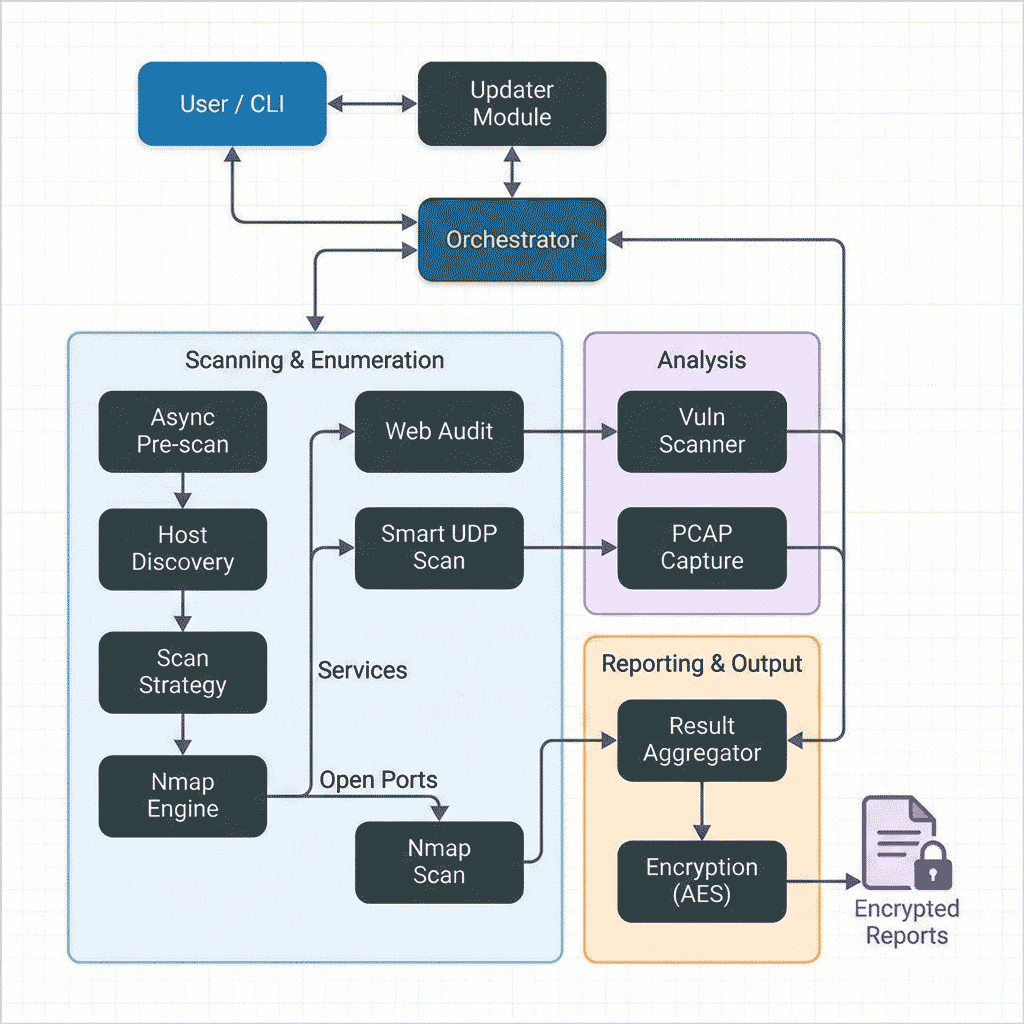
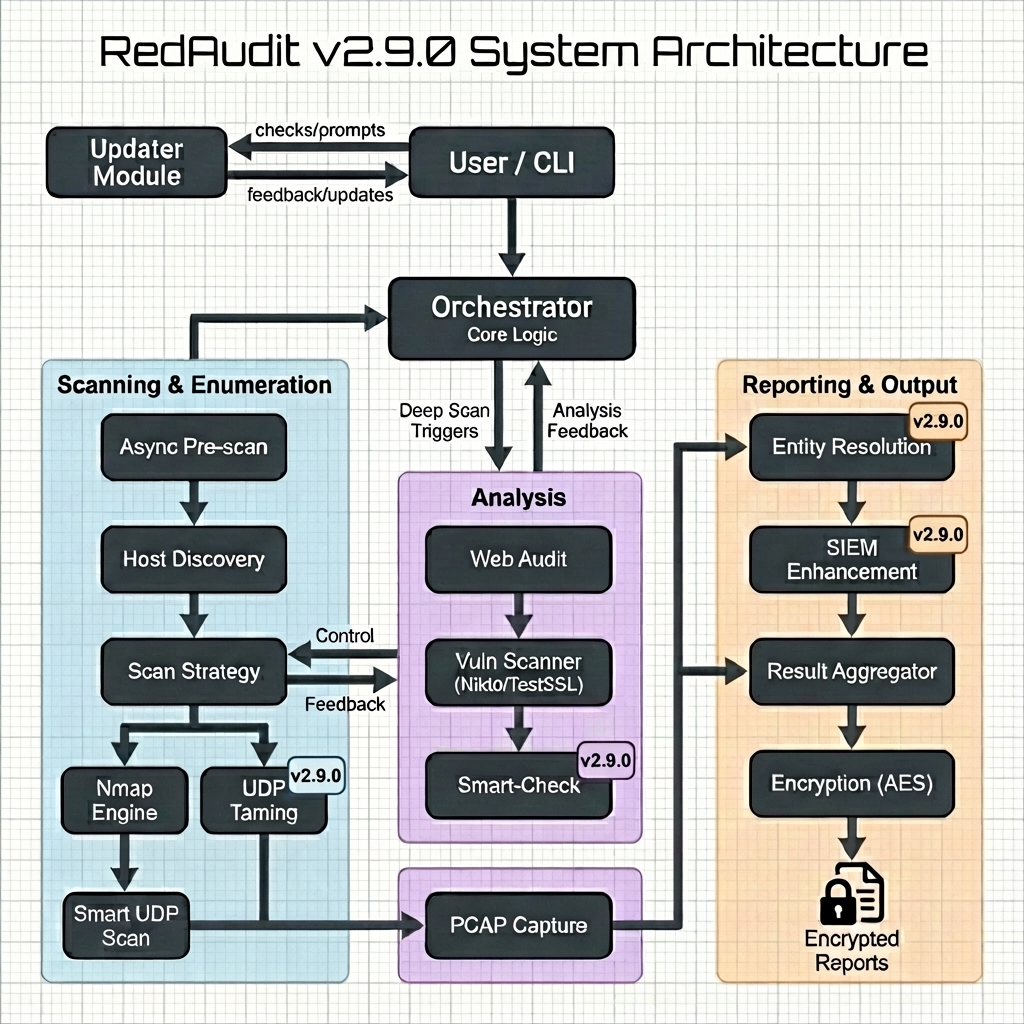
docs: Update system overview diagrams for v2.9.0
New diagrams with:
- Dark theme professional aesthetic
- Highlighted v2.9 modules (Smart-Check, Entity Resolution, SIEM, UDP Taming)
- Bidirectional workflow arrows
- Both English and Spanish versions

diff --git a/redaudit/core/auditor.py b/redaudit/core/auditor.py
@@ -575,7 +575,7 @@ class InteractiveNetworkAuditor:
                         deep_obj["vendor"] = v2a
 
                 # Phase 2b: Full UDP scan (only if mode is 'full' and still no identity)
-                # v3.0: Optimized to use top-ports instead of full 65535 port scan
+                # v2.9: Optimized to use top-ports instead of full 65535 port scan
                 has_identity_now = output_has_identity(deep_obj.get("commands", []))
                 if udp_mode == UDP_SCAN_MODE_FULL and not has_identity_now and not mac:
                     cmd_p2b = [
@@ -920,7 +920,7 @@ class InteractiveNetworkAuditor:
                     pass
 
             # Nikto (only in full mode)
-            # v3.0: Smart-Check integration for false positive filtering
+            # v2.9: Smart-Check integration for false positive filtering
             if self.config["scan_mode"] == "completo" and self.extra_tools.get("nikto"):
                 try:
                     self.current_phase = f"vulns:nikto:{ip}:{port}"
@@ -935,7 +935,7 @@ class InteractiveNetworkAuditor:
                     if output:
                         findings_list = [line for line in output.splitlines() if "+ " in line][:20]
                         if findings_list:
-                            # v3.0: Filter false positives using Smart-Check
+                            # v2.9: Filter false positives using Smart-Check
                             original_count = len(findings_list)
                             verified = filter_nikto_false_positives(
                                 findings_list, url, self.extra_tools, self.logger

diff --git a/tests/test_prescan.py b/tests/test_prescan.py
@@ -4,6 +4,9 @@ Tests for RedAudit pre-scan module.
 """
 
 import unittest
+import sys
+import os
+import inspect # Added for iscoroutinefunction check
 from unittest.mock import patch, AsyncMock
 
 from redaudit.core.prescan import (
@@ -87,17 +90,15 @@ class TestPrescanModule(unittest.TestCase):
         from redaudit.core.prescan import run_prescan
         self.assertTrue(callable(run_prescan))
 
-    def test_prescan_host_import(self):
-        """Test prescan_host can be imported."""
-        from redaudit.core.prescan import prescan_host
-        import asyncio
-        self.assertTrue(asyncio.iscoroutinefunction(prescan_host))
 
-    def test_check_port_import(self):
-        """Test check_port can be imported."""
-        from redaudit.core.prescan import check_port
-        import asyncio
-        self.assertTrue(asyncio.iscoroutinefunction(check_port))
+class TestAsyncPrescan(unittest.TestCase):
+
+    def test_async_functions_exist(self):
+        """Verify that async functions are defined as coroutines"""
+        from redaudit.core.prescan import prescan_host, check_port
+        # Check that functions are coroutines
+        self.assertTrue(inspect.iscoroutinefunction(prescan_host))
+        self.assertTrue(inspect.iscoroutinefunction(check_port))
 
 
 if __name__ == "__main__":

diff --git a/redaudit/core/reporter.py b/redaudit/core/reporter.py
@@ -72,7 +72,7 @@ def generate_summary(
     }
     results["targets"] = config.get("target_networks", [])
 
-    # v3.0: Entity Resolution - consolidate multi-interface hosts
+    # v2.9: Entity Resolution - consolidate multi-interface hosts
     hosts = results.get("hosts", [])
     if hosts:
         unified = reconcile_assets(hosts)
@@ -83,7 +83,7 @@ def generate_summary(
             summary["unified_asset_count"] = len(unified)
             summary["multi_interface_devices"] = multi_interface
 
-    # v3.0: SIEM Enhancement - ECS compliance, severity scoring, tags, risk scores
+    # v2.9: SIEM Enhancement - ECS compliance, severity scoring, tags, risk scores
     enriched = enrich_report_for_siem(results, config)
     results.update(enriched)
 

diff --git a/redaudit/core/verify_vuln.py b/redaudit/core/verify_vuln.py
@@ -4,7 +4,7 @@ RedAudit - Vulnerability Verification Module
 Copyright (C) 2026  Dorin Badea
 GPLv3 License
 
-v3.0: Smart-Check module for filtering false positives from Nikto and other scanners.
+v2.9: Smart-Check module for filtering false positives from Nikto and other scanners.
 Uses Content-Type verification and Magic Bytes to detect Soft 404s.
 """
 
@@ -238,7 +238,7 @@ def filter_nikto_false_positives(
     """
     Filter a list of Nikto findings to remove false positives.
     
-    This is the main entry point for v3.0 Smart-Check functionality.
+    This is the main entry point for v2.9 Smart-Check functionality.
     
     Args:
         findings: List of raw Nikto finding lines

diff --git a/redaudit/core/scanner.py b/redaudit/core/scanner.py
@@ -128,7 +128,7 @@ def get_nmap_arguments(mode: str) -> str:
     args = {
         "rapido": "-sn -T4 --max-retries 1 --host-timeout 10s",
         "normal": "-T4 -F -sV --version-intensity 5 --host-timeout 60s --open",
-        # v3.0: Reduced max-retries from 2 to 1 for LAN efficiency
+        # v2.9: Reduced max-retries from 2 to 1 for LAN efficiency
         "completo": "-T4 -p- -sV -sC -A --version-intensity 9 --host-timeout 300s --max-retries 1 --open",
     }
     return args.get(mode, args["normal"])

diff --git a/redaudit/utils/constants.py b/redaudit/utils/constants.py
@@ -36,7 +36,7 @@ UDP_SCAN_MODE_QUICK = "quick"
 UDP_SCAN_MODE_FULL = "full"
 DEFAULT_UDP_MODE = UDP_SCAN_MODE_QUICK
 
-# v3.0: Optimized UDP scanning for LAN
+# v2.9: Optimized UDP scanning for LAN
 UDP_TOP_PORTS = 100  # Default UDP port count for full scans (vs 65535)
 UDP_HOST_TIMEOUT_STRICT = "300s"  # 5 minutes max per host
 UDP_MAX_RETRIES_LAN = 1  # Single retry for LAN environments

diff --git a/redaudit/core/entity_resolver.py b/redaudit/core/entity_resolver.py
@@ -4,7 +4,7 @@ RedAudit - Entity Resolution Module
 Copyright (C) 2026  Dorin Badea
 GPLv3 License
 
-v3.0: Asset reconciliation module for identifying and merging duplicate host entries
+v2.9: Asset reconciliation module for identifying and merging duplicate host entries
 that represent the same physical device with multiple network interfaces.
 """
 

diff --git a/redaudit/core/siem.py b/redaudit/core/siem.py
@@ -4,7 +4,7 @@ RedAudit - SIEM Enhancement Module
 Copyright (C) 2026  Dorin Badea
 GPLv3 License
 
-v3.0: SIEM-compatible output enhancements for Splunk, Elastic, QRadar, ArcSight.
+v2.9: SIEM-compatible output enhancements for Splunk, Elastic, QRadar, ArcSight.
 Implements ECS (Elastic Common Schema), severity scoring, and CEF format.
 """
 

diff --git a/tests/test_entity_resolver.py b/tests/test_entity_resolver.py
@@ -1,7 +1,7 @@
 #!/usr/bin/env python3
 """
 RedAudit - Tests for entity_resolver module
-v3.0 Entity Resolution for multi-interface hosts
+v2.9 Entity Resolution for multi-interface hosts
 """
 
 import sys

diff --git a/tests/test_siem.py b/tests/test_siem.py
@@ -1,7 +1,7 @@
 #!/usr/bin/env python3
 """
 RedAudit - Tests for SIEM enhancement module
-v3.0 Professional SIEM integration tests
+v2.9 Professional SIEM integration tests
 """
 
 import sys

diff --git a/tests/test_verify_vuln.py b/tests/test_verify_vuln.py
@@ -1,7 +1,7 @@
 #!/usr/bin/env python3
 """
 RedAudit - Tests for verify_vuln module
-v3.0 Smart-Check false positive filtering
+v2.9 Smart-Check false positive filtering
 """
 
 import sys

diff --git a/README_ES.md b/README_ES.md
@@ -33,8 +33,8 @@ RedAudit opera como una capa de orquestación, gestionando hilos de ejecución c
 |:---|:---|:---|
 | **Escáner Core** | `nmap`, `python3-nmap` | Escaneo de puertos TCP/UDP, detección de servicios/versión, fingerprinting de SO. |
 | **Reconocimiento Web** | `whatweb`, `curl`, `wget`, `nikto` | Analiza cabeceras HTTP, tecnologías y vulnerabilidades. |
-| **Inteligencia de Exploits** | `searchsploit` (v2.6.1+) | Búsqueda automática en ExploitDB para servicios con versiones detectadas. |
-| **Análisis SSL/TLS** | `testssl.sh` (v2.6.1+) | Escaneo profundo de vulnerabilidades SSL/TLS (Heartbleed, POODLE, cifrados débiles). |
+| **Inteligencia de Exploits** | `searchsploit` | Búsqueda automática en ExploitDB para servicios con versiones detectadas. |
+| **Análisis SSL/TLS** | `testssl.sh` | Escaneo profundo de vulnerabilidades SSL/TLS (Heartbleed, POODLE, cifrados débiles). |
 | **Captura de Tráfico** | `tcpdump`, `tshark` | Captura de paquetes de red para análisis detallado de protocolos. |
 | **DNS/Whois** | `dig`, `whois` | Búsquedas DNS inversas e información de propiedad para IPs públicas. |
 | **Orquestador** | `concurrent.futures` (Python) | Gestiona pools de hilos para escaneo paralelo de hosts. |
@@ -123,11 +123,11 @@ sudo redaudit --target "192.168.1.0/24,10.0.0.0/24" --mode normal --threads 6
 - `--no-vuln-scan`: Desactivar escaneo de vulnerabilidades web
 - `--no-txt-report`: Desactivar generación de reporte TXT
 - `--no-deep-scan`: Desactivar deep scan adaptativo
-- `--prescan`: Activar pre-escaneo rápido asyncio antes de nmap (v2.7)
+- `--prescan`: Activar pre-escaneo rápido asyncio antes de nmap
 - `--prescan-ports`: Rango de puertos para pre-scan (defecto: 1-1024)
 - `--prescan-timeout`: Timeout de pre-scan en segundos (defecto: 0.5)
-- `--udp-mode`: Modo de escaneo UDP: quick (defecto) o full (v2.8)
-- `--skip-update-check`: Omitir verificación de actualizaciones al iniciar (v2.8)
+- `--udp-mode`: Modo de escaneo UDP: quick (defecto) o full
+- `--skip-update-check`: Omitir verificación de actualizaciones al iniciar
 - `--yes, -y`: Saltar advertencia legal (usar con precaución)
 - `--lang`: Idioma (en/es)
 
@@ -155,7 +155,7 @@ Controlado por el parámetro `rate_limit_delay`.
   - **1-5s**: Equilibrado. Recomendado para auditorías internas para evitar disparar limitadores simples.
   - **>5s**: Paranoico/Conservador. Úsalo en entornos de producción sensibles.
 
-### Deep Scan Adaptativo (v2.8)
+### Deep Scan Adaptativo
 
 RedAudit aplica un escaneo adaptativo inteligente de 3 fases para maximizar la recopilación de información:
 
@@ -163,7 +163,7 @@ RedAudit aplica un escaneo adaptativo inteligente de 3 fases para maximizar la r
 2. **Fase 2a - UDP Prioritario**: Escaneo rápido de 17 puertos UDP comunes (DNS, DHCP, SNMP, NetBIOS)
 3. **Fase 2b - UDP Completo**: Solo en modo `full` si no se encontró identidad (`-O -sSU -p-`)
 
-**Características adicionales v2.8:**
+**Características de Deep Scan:**
 
 - **Captura PCAP Concurrente**: El tráfico se captura durante el escaneo (no después)
 - **Banner Grab Fallback**: Usa `--script banner,ssl-cert` para puertos no identificados
@@ -173,7 +173,7 @@ RedAudit aplica un escaneo adaptativo inteligente de 3 fases para maximizar la r
 - **Activación**: Automática según heurísticas (pocos puertos, servicios sospechosos, etc.)
 - **Salida**: Logs completos, datos MAC/Vendor, y PCAP en `host.deep_scan`
 
-## Arquitectura Modular (v2.8)
+## Arquitectura Modular
 
 RedAudit está organizado como un paquete Python modular:
 
@@ -181,21 +181,21 @@ RedAudit está organizado como un paquete Python modular:
 redaudit/
 ├── core/           # Funcionalidad principal
 │   ├── auditor.py  # Clase orquestadora principal
-│   ├── prescan.py  # Descubrimiento rápido asyncio (v2.7)
+│   ├── prescan.py  # Descubrimiento rápido asyncio
 │   ├── scanner.py  # Lógica de escaneo Nmap
 │   ├── crypto.py   # Cifrado/descifrado AES-128
 │   ├── network.py  # Detección de interfaces
 │   ├── reporter.py # Salida JSON/TXT + SIEM
-│   ├── updater.py  # Auto-actualización segura (v2.8)
-│   ├── verify_vuln.py  # Filtrado de falsos positivos Nikto (v3.0)
-│   ├── entity_resolver.py  # Agrupación hosts multi-interfaz (v3.0)
-│   └── siem.py     # Integración SIEM profesional (v3.0)
+│   ├── updater.py  # Auto-actualización segura
+│   ├── verify_vuln.py  # Filtrado de falsos positivos Nikto
+│   ├── entity_resolver.py  # Agrupación hosts multi-interfaz
+│   └── siem.py     # Integración SIEM profesional
 └── utils/          # Utilidades
     ├── constants.py # Constantes de configuración
     └── i18n.py      # Internacionalización
 ```
 
-### Auto-Actualización Segura (v2.8)
+### Auto-Actualización Segura
 
 RedAudit puede verificar e instalar actualizaciones automáticamente:
 
@@ -282,14 +282,14 @@ Consulta [docs/TROUBLESHOOTING.md](docs/TROUBLESHOOTING.md) para soluciones deta
 
 ## 13. Historial de Cambios (v2.9.0)
 
-### Nuevo en v2.9.0 (Mejoras Inteligentes)
+### Mejoras Recientes
 
 - **Smart-Check**: Filtrado automático de falsos positivos de Nikto via Content-Type
 - **UDP Taming**: Escaneo 50-80% más rápido con `--top-ports 100` y timeouts estrictos
 - **Entity Resolution**: Consolidación de hosts multi-interfaz (`unified_assets`)
 - **SIEM Profesional**: Cumplimiento ECS v8.11, severidad, risk scores, auto-tags
 
-### Características Clave de v2.x
+### Características Principales
 
 - **Deep Scan Adaptativo**: Estrategia de 3 fases (TCP agresivo → UDP prioritario → UDP completo)
 - **Captura PCAP Concurrente**: Tráfico capturado durante escaneos
